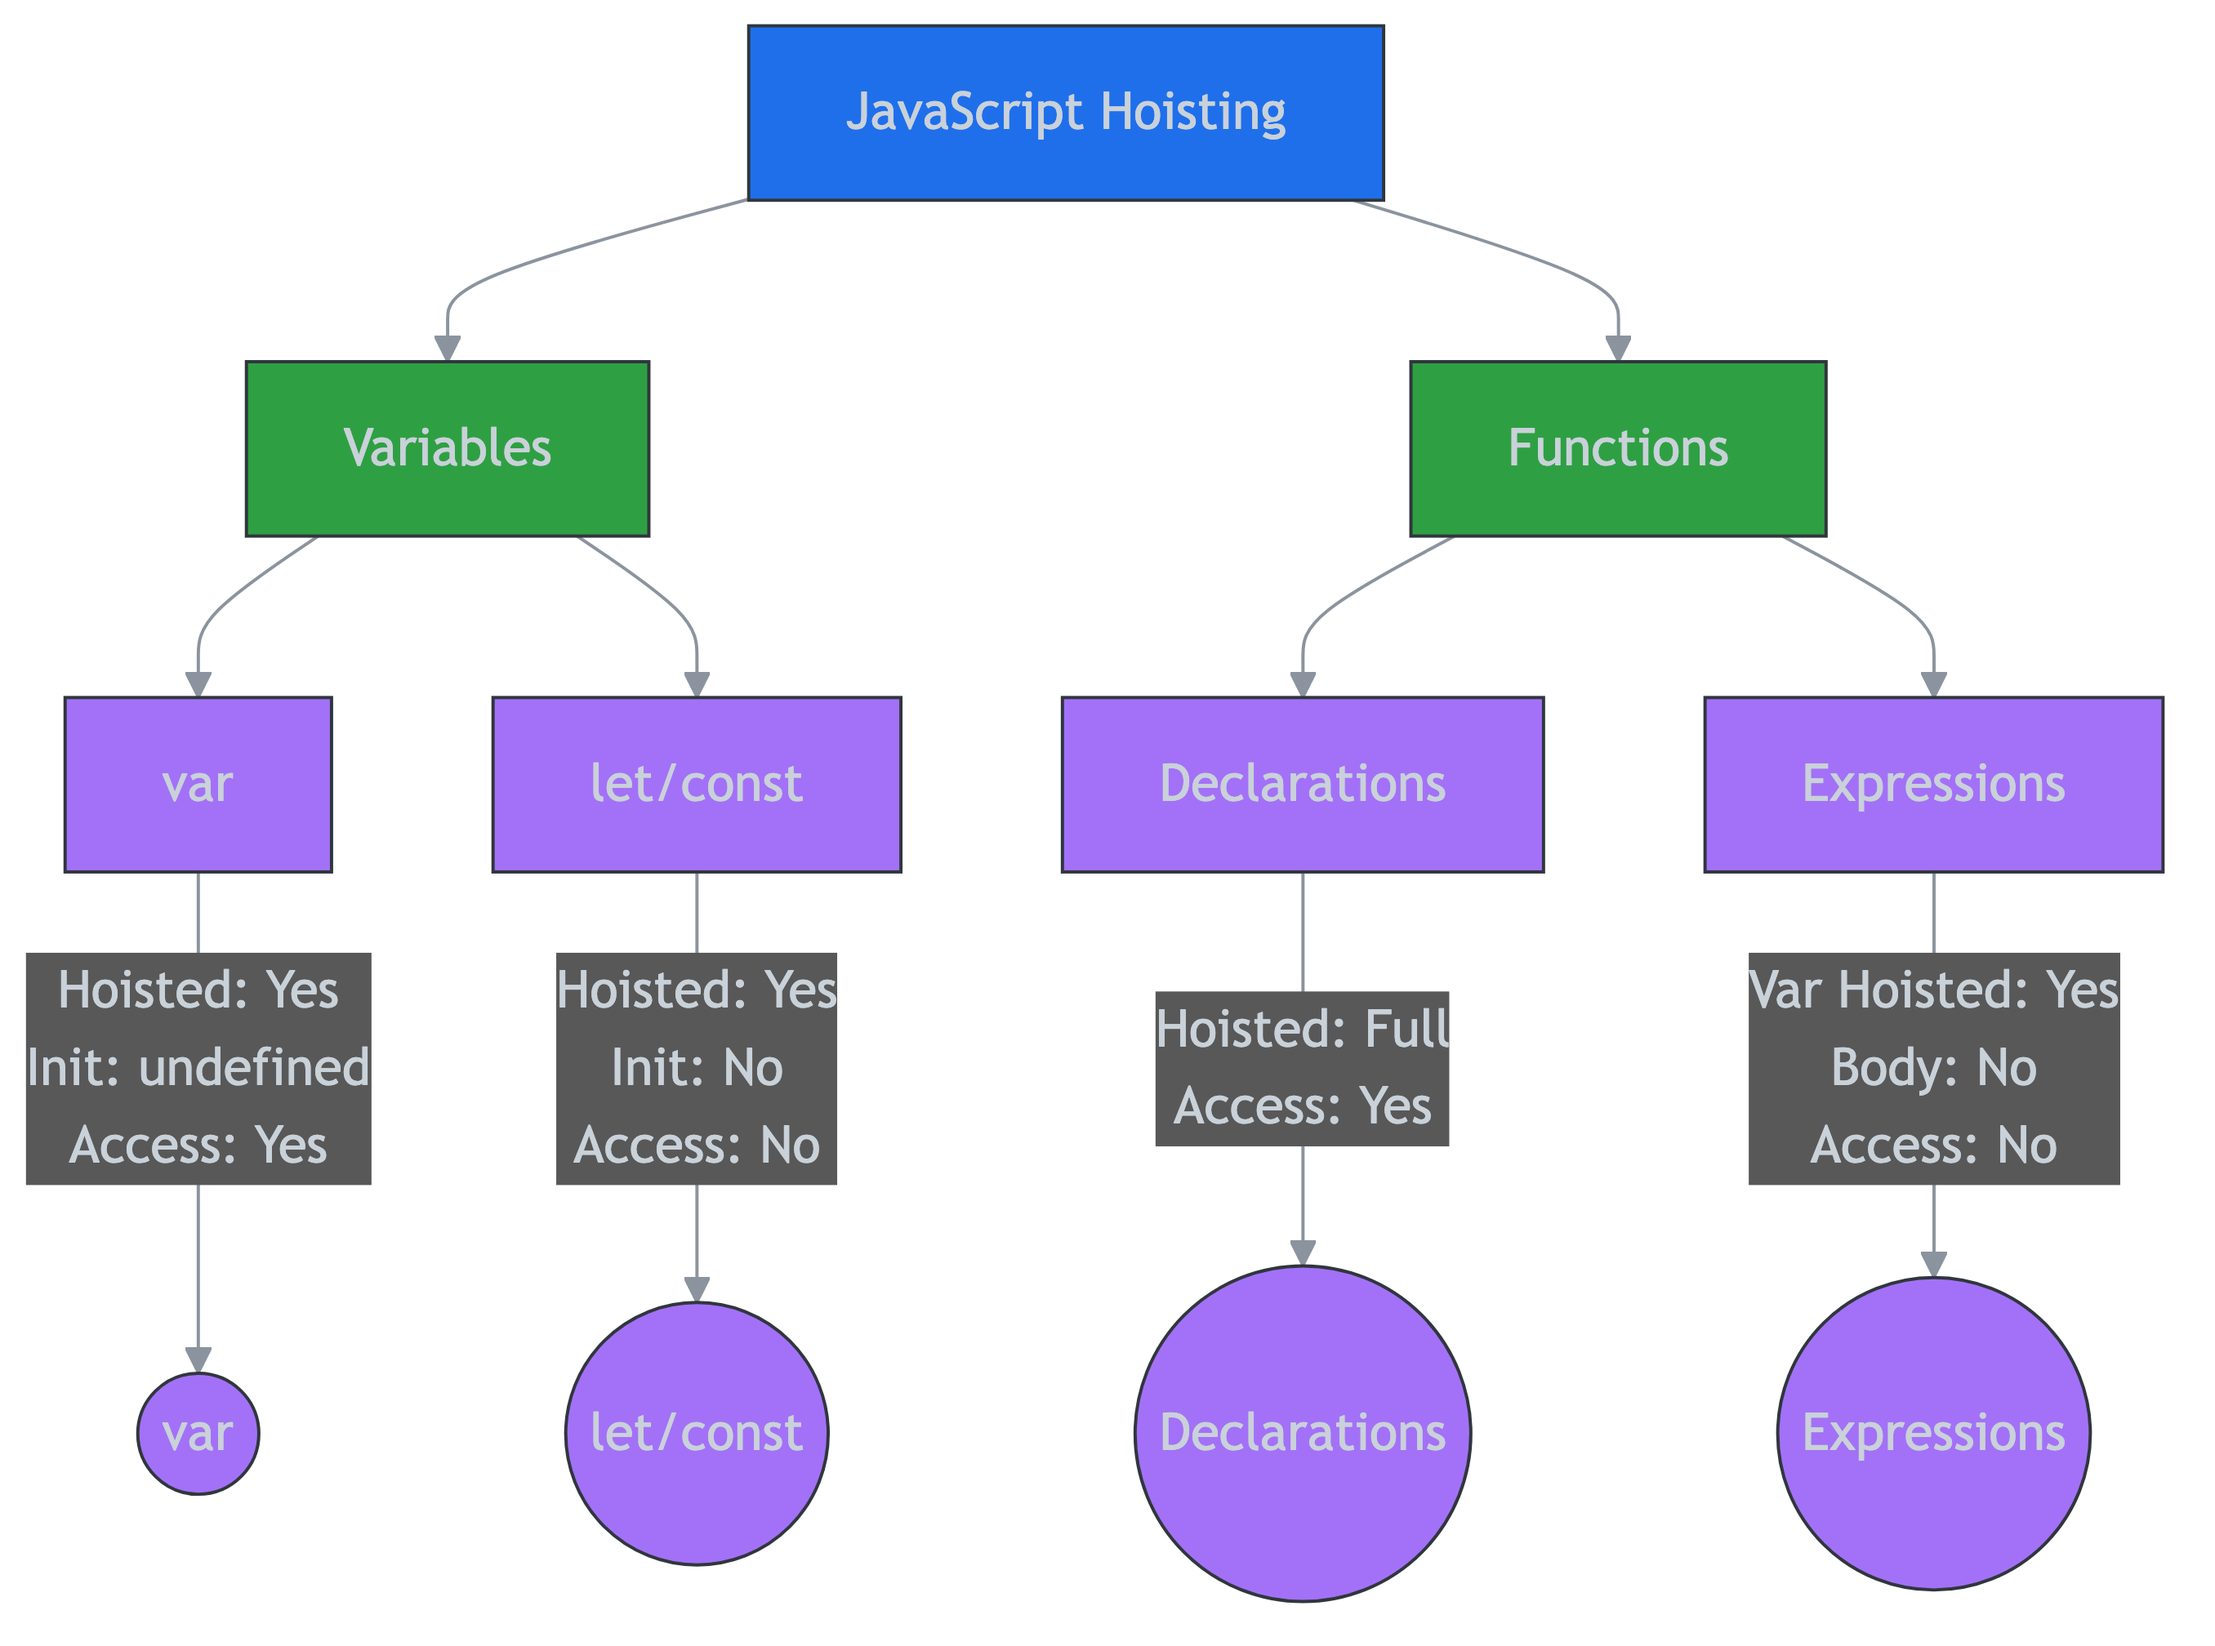
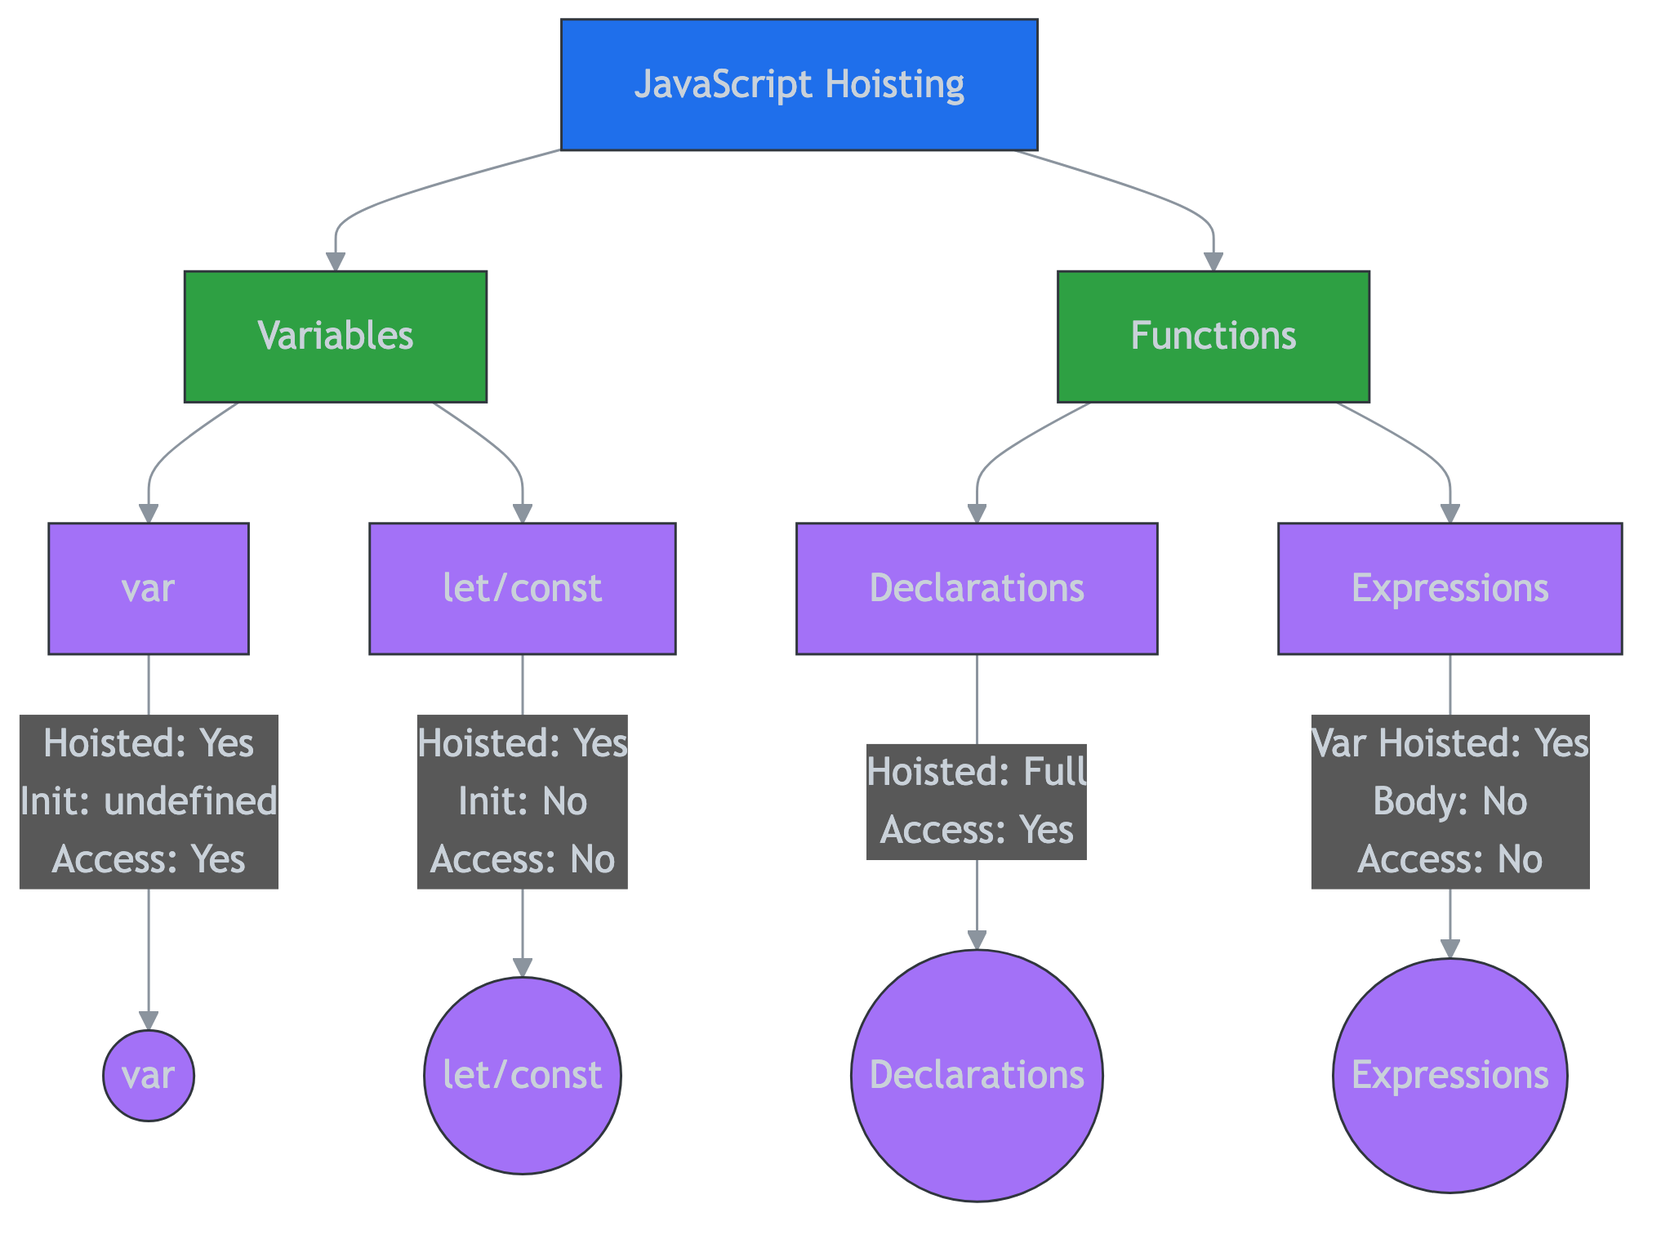
set scale to 3
scale 3 is enough resolution.

diff --git a/src/index.ts b/src/index.ts
@@ -72,7 +72,7 @@ const outputPNGFile = path.join(__dirname, '..', 'output.png');
 convertMermaidToPNG(
   inputMarkdownFile,
   outputPNGFile,
-  4, // Higher scale factor for better quality
+  3, // Higher scale factor for better quality
   'white' // Background color (optional)
 ).catch(console.error);
 
